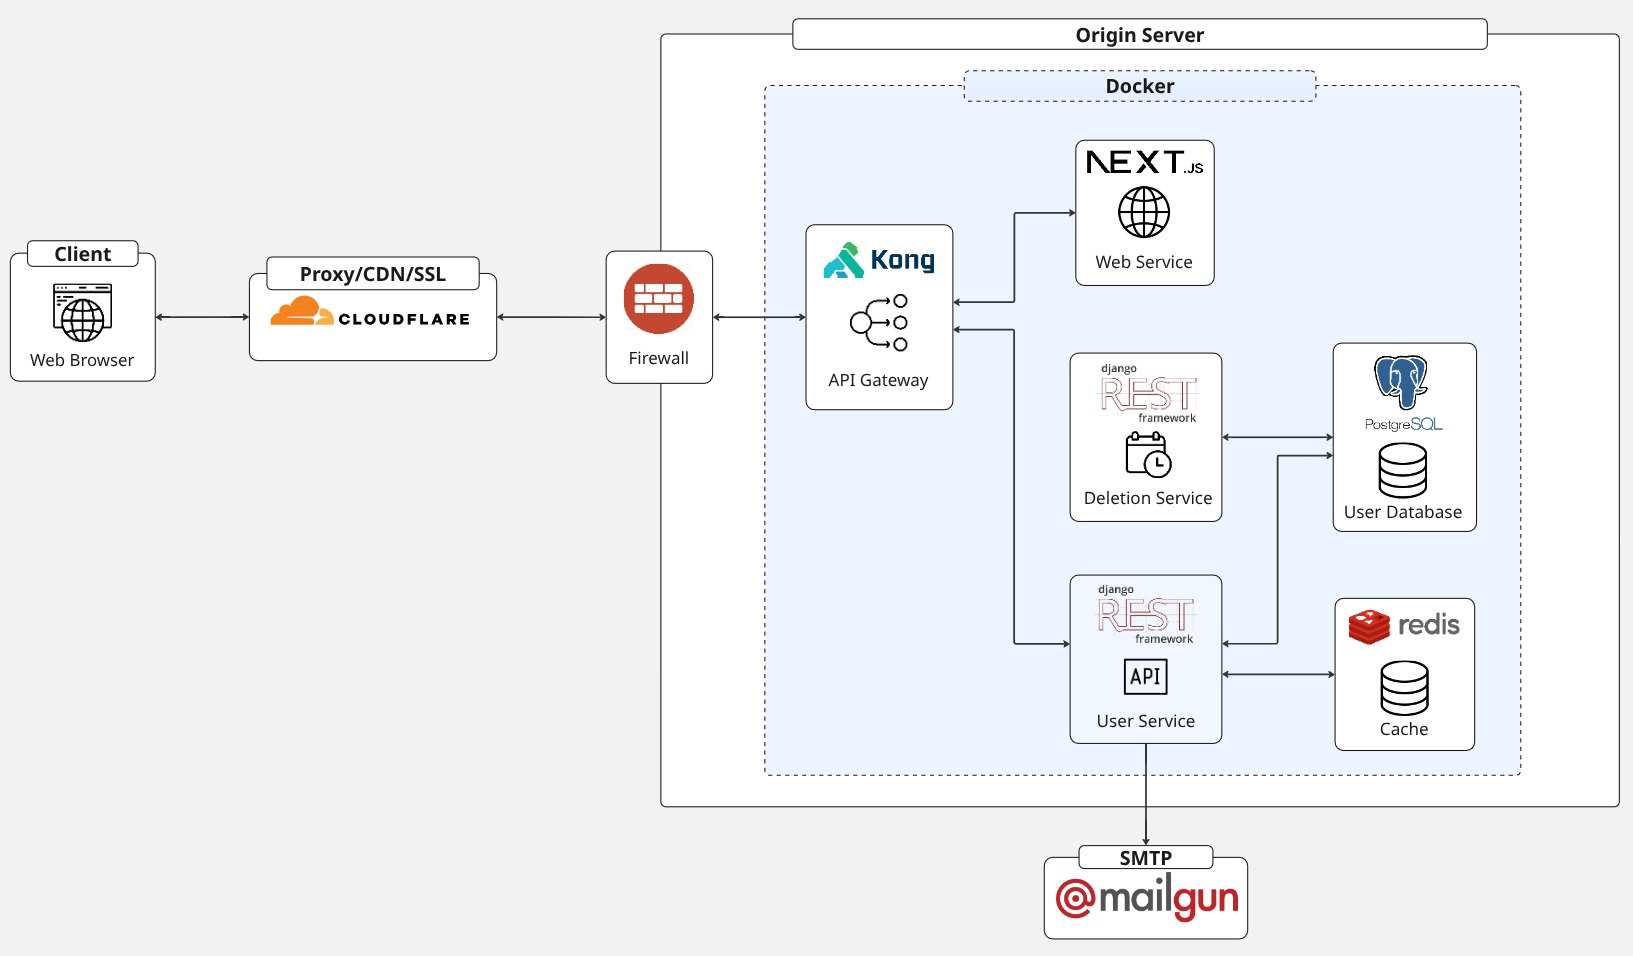
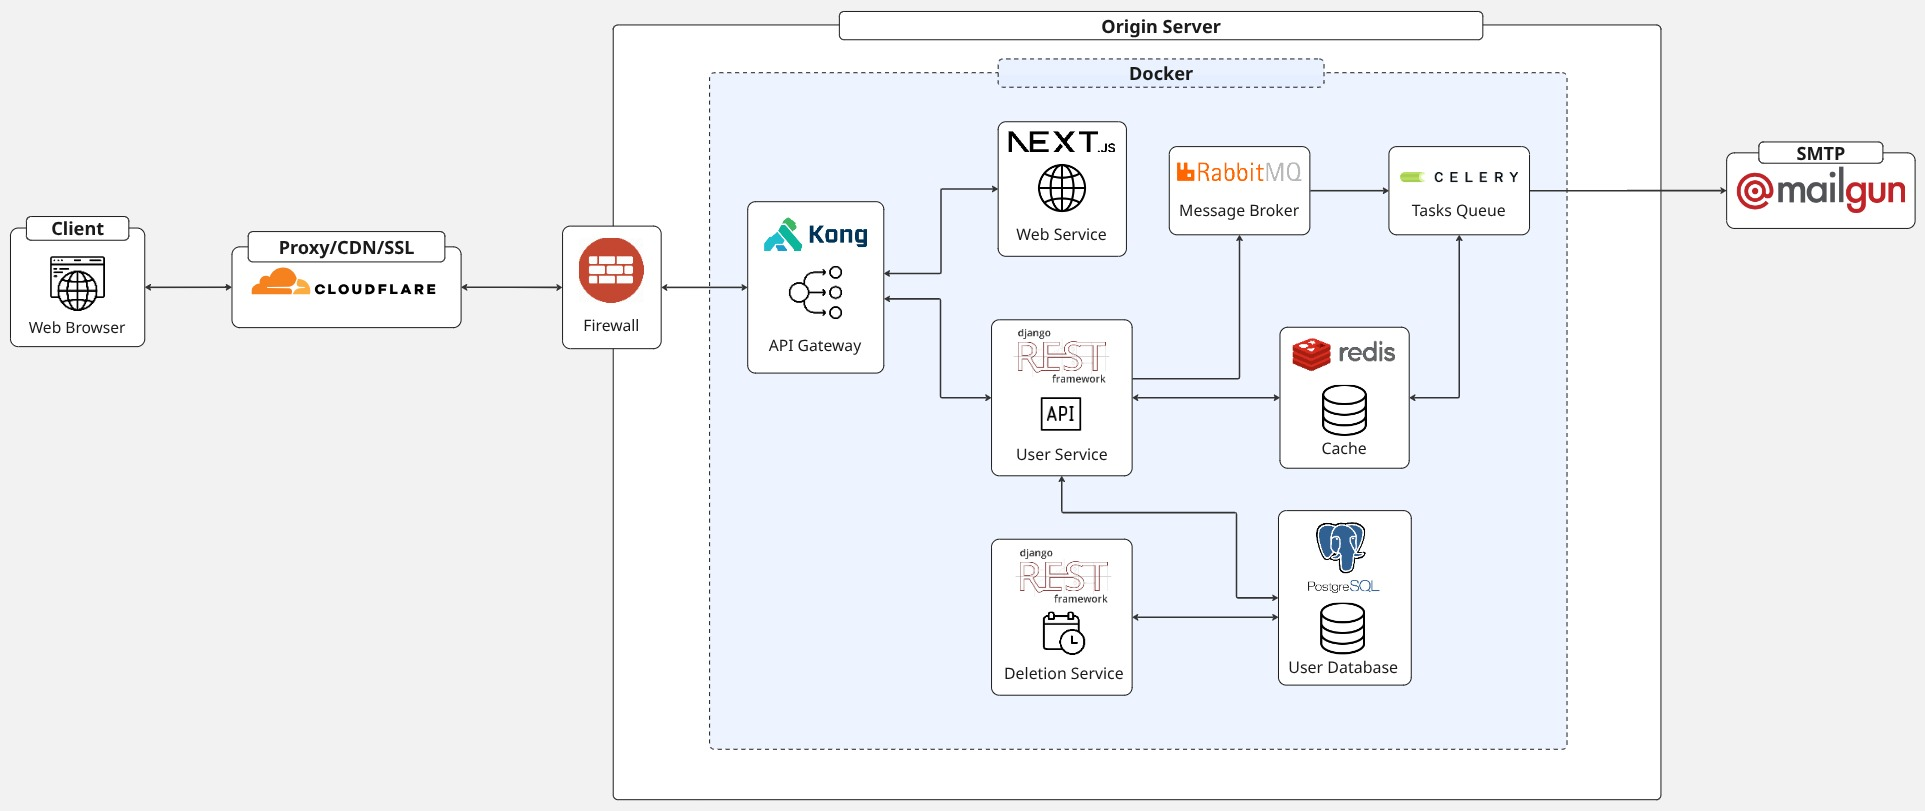
chore: Update README.md

diff --git a/README.md b/README.md
@@ -6,16 +6,16 @@ The live application is available at [https://dvi-app.xyz](https://dvi-app.xyz).
 
 ## Architecture Overview
 
-- **Frontend**: TypeScript, React, Next.js, and Tailwind CSS serving a responsive user interface.
-- **Backend**: Django REST Framework powering a user microservice (handles authentication, user management, email sending) and a separate scheduled deletion microservice for regularly cleaning up users that requested account deletion.
-- **API Gateway**: Kong Gateway sits in front of both services, handling routing, rate limiting, CORS, and acting as a unified entry point.
-- **Data Layer**: PostgreSQL as the primary database and Redis for caching.
+- **Frontend**: TypeScript, React, Next.js, and Tailwind CSS serving a responsive user interface
+- **Backend**: Django REST Framework powering a user microservice (authentication, user management), scheduled account deletion microservice, and email-sending microservice using Celery and RabbitMQ
+- **API Gateway**: Kong Gateway handles routing, rate limiting, CORS, and acts as the centralized entry point
+- **Data Layer**: PostgreSQL as the primary database with Redis for caching
 - **Infrastructure**:
-  - Containerized with Docker Compose and deployed on a Hetzner VPS.
-  - Protected by a provider-level firewall that only allows traffic from Cloudflare and trusted IPs.
-  - Cloudflare handles DNS, CDN, SSL termination, caching, and DDoS protection.
-  - Email delivery via Mailgun SMTP.
-  - Daily encrypted database backups stored on the server.
+  - Containerized with Docker Compose and deployed on a Hetzner VPS
+  - Protected by a provider-level firewall (Cloudflare and trusted IPs only)
+  - Cloudflare handles DNS, CDN, SSL, caching, and DDoS protection
+  - Email delivery via Mailgun SMTP
+  - Daily encrypted database backups stored on the server
 
 The architecture tries to emphasize security, scalability, and separation of concerns.
 
